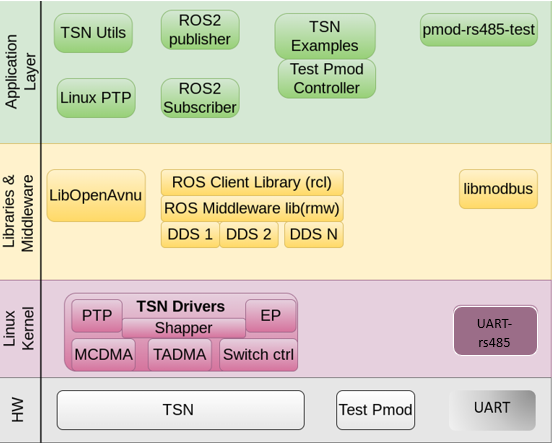
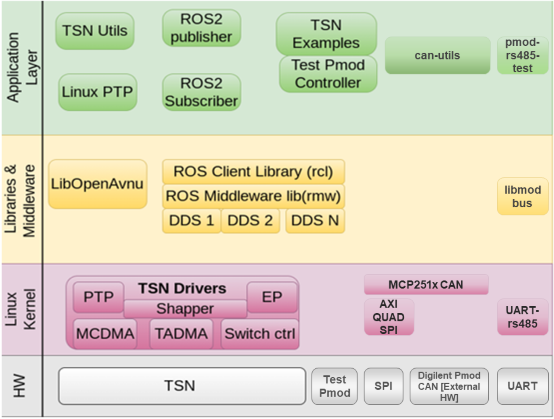
ros-tsn: Update TSN app doc for PMOD-CAN
- Update documentation to include CAN communication
setup and demo section for Digilent Pmod CAN device.
- Modify sw_arch_intro.png, sw_arch_platform.md and
app_deployment.md

diff --git a/docs/src/app_deployment.md b/docs/src/app_deployment.md
@@ -52,6 +52,8 @@ This document shows how to set up the board and run the TSN ROS application.
 
 * [12VDC Power Supply](https://digilent.com/shop/12v-3a-power-supply/) with Prototyping or Bare Terminals – Optional (Sold Separately)
 
+* Two Digilent Pmod CAN devices - Optional (Sold Separately [here](https://digilent.com/reference/pmod/pmodcan/start))
+
 * Wireshark tools installed on host machine (Ubuntu 20.04 Linux used for documentation)
 
 **NOTE**: This tutorial can be run with one KD240 and one KR260 configuration as well
@@ -1196,6 +1198,129 @@ The output on the serial terminal should match the value displayed on the seven-
 > ```
 > For reference, here is the register map of the sensor:
 > ![tmp](media/tmp-ref.png)
+
+
+### CAN Communication Setup and Demonstration
+
+The application extends its functionality to support CAN communication by interfacing with
+[PMOD CAN](https://digilent.com/reference/pmod/pmodcan/start) devices. This additional feature
+allows seamless communication between devices through the CAN interface, enabling efficient
+data exchange for various applications.
+
+#### CAN: Board Setup
+
+The configuration requires a setup involving two Kria boards, either for communication between
+two KR260 boards or between a KR260 board and a KD240 board.
+
+1. KR260-KR260 Setup
+
+Connect the PMOD-CAN test point headers to the J19 (PMOD 3) connector on both KR260 boards.
+Connect the PMOD-CAN devices on both boards using jumper wires as shown below:
+- Connect GND on J19 (KR260 board 1) to GND on J19 (KR260 board 2)
+- Connect CANH on J19 (KR260 board 1) to CANH on J19 (KR260 board 2)
+- Connect CANL on J19 (KR260 board 1) to CANL on J19 (KR260 board 2)
+
+![KR-KR-PMODCAN](media/KR-KR-PMODCAN.png)
+
+2. KR260-KD240 Setup
+
+Connect the PMOD-CAN test point headers to the J19 (PMOD 3) connector on KR260 board.
+Connect the PMOD-CAN device on KR260 board to the CAN 2.0 J18 connector on KD240 board
+using jumper wires as shown below:
+- Connect GND on J19 (KR260 board 1) to GND on J18 (KD240 board 2)
+- Connect CANH on J19 (KR260 board 1) to CANH on J18 (KD240 board 2)
+- Connect CANL on J19 (KR260 board 1) to CANL on J18 (KD240 board 2)
+
+![KR-KD-PMODCAN](media/KR-KD-PMODCAN.png)
+
+
+#### CAN Communication Demo
+
+This tutorial provides a step-by-step guide to run a demo of CAN communication between two
+Kria boards using the CAN interface. It details the necessary packages and commands
+to establish communication, send, and receive messages. Note that this feature is an additional
+capability provided by the application to support CAN communication.
+
+* Required Packages
+Install the necessary packages on both devices:
+    ```bash
+	sudo apt update
+	sudo apt install can-utils   
+    ```
+
+* Ensure to load the TSN accelerator/firmware (refer to step-7 'dynamically load the application
+package' from initial setup) before testing example application. If the firmware is already
+loaded, ignore this step and proceed.
+    * KR260 firmware load command:
+    ```bash
+        sudo xmutil unloadapp
+        sudo xmutil loadapp kr260-tsn-rs485pmod
+    ```
+    * KD240 firmware load command:
+    ```bash
+        sudo xmutil unloadapp
+        sudo xmutil loadapp kd240-motor-ctrl-qei
+    ```
+* Verify CAN device enumeration on both the boards:
+    ```bash
+	ip link show
+    ```
+    Ensure that 'can0' node is listed to confirm that the CAN device is recognized.
+    An example output when run on KR260:
+    ```bash
+	ubuntu@kria:~$ ip link show
+	1: lo: <LOOPBACK,UP,LOWER_UP> mtu 65536 qdisc noqueue state UNKNOWN mode DEFAULT group default qlen 1000
+    	link/loopback 00:00:00:00:00:00 brd 00:00:00:00:00:00
+	11: eth0: <NO-CARRIER,BROADCAST,MULTICAST,UP> mtu 1500 qdisc mq state DOWN mode DEFAULT group default qlen 1000
+    	link/ether 00:0a:35:10:38:7d brd ff:ff:ff:ff:ff:ff
+	12: eth1: <BROADCAST,MULTICAST,UP,LOWER_UP> mtu 1500 qdisc mq state UP mode DEFAULT group default qlen 1000
+    	link/ether 00:0a:35:10:38:7e brd ff:ff:ff:ff:ff:ff
+	13: docker0: <NO-CARRIER,BROADCAST,MULTICAST,UP> mtu 1500 qdisc noqueue state DOWN mode DEFAULT group default
+    	link/ether 02:42:ba:13:d1:63 brd ff:ff:ff:ff:ff:ff
+	14: ep: <BROADCAST,UP,LOWER_UP> mtu 1500 qdisc mq state UNKNOWN mode DEFAULT group default qlen 1000
+    	link/ether 00:0a:35:00:01:05 brd ff:ff:ff:ff:ff:ff
+	15: eth2: <NO-CARRIER,BROADCAST,UP> mtu 1500 qdisc mq state DOWN mode DEFAULT group default qlen 1000
+    	link/ether 00:0a:35:00:01:0e brd ff:ff:ff:ff:ff:ff
+	16: eth3: <NO-CARRIER,BROADCAST,UP> mtu 1500 qdisc mq state DOWN mode DEFAULT group default qlen 1000
+    	link/ether 00:0a:35:00:01:0f brd ff:ff:ff:ff:ff:ff
+	17: can0: <NOARP,ECHO> mtu 16 qdisc noop state DOWN mode DEFAULT group default qlen 10
+    	link/can
+    ```
+* Setup the CAN interface on both the boards:
+    ```bash
+	sudo ip link set can0 type can bitrate 100000
+	sudo ip link set can0 txqueuelen 1000
+	sudo ip link set can0 up
+    ```
+
+* Verify CAN communication:
+
+  Start monitoring messages on board 2
+    ```bash
+	sudo candump can0
+    ```
+  Send CAN message from board 1
+    ```bash
+	sudo cansend can0 123#1122334455667788
+    ```
+  An example output on receiving the message on board 2 is shown below:
+    ```bash
+	ubuntu@kria:~$ sudo candump can0
+
+  	can0  123   [8]  11 22 33 44 55 66 77 88
+    ```
+  Similarly, repeat the above steps by sending the message on board 2 and monitoring on board 1.
+  This ensures that both sending and receiving functionality is verified on both devices.
+
+
+* Bring down the CAN interfaces on both boards after testing:
+   ```bash
+	sudo ip link set can0 down
+   ```
+
+The demo provides users with a foundation to explore and develop CAN-based applications, leveraging
+the communication capability provided by the platform. Integrating this with ROS applications allows
+for efficient and reliable real-time data exchange, enhancing performance and communication.
 
 ## Known issues
 

diff --git a/docs/src/sw_arch_platform.md b/docs/src/sw_arch_platform.md
@@ -12,6 +12,8 @@ Following diagram illustrates the top-level architecture and arrangement of vari
   - Drivers:
     - Uart-rs485
     - set of tsn related drivers
+    - AXI QSPI
+    - MCP251x CAN driver
 - Libraries and Middleware
   - ModBus
   - ROS2
@@ -29,6 +31,7 @@ The following list describes the top-level application functions:
 - TSN demonstration
 - ROS demonstration
 - Modbus and RS485 demonstration
+- CAN communication demonstration
 
 ## TSN
 
@@ -156,6 +159,43 @@ To demonstrate Modbus and RS485 capability an example C application, pmdo-rs485-
 - Adjust response time
 - Read Temperature and Humidity values from the sensor
 
+## CAN Interface and Demonstration
+
+The platform includes support for the mcp25625 microcontroller in the Digilent PMOD CAN device,
+enabled through the quad SPI interface implemented in the PL. Controller Area Network (CAN) is a
+robust communication protocol designed to allow devices to communicate with each other. It is
+widely used in industrial applications due to its reliability and efficiency in data transmission.
+Integrating CAN with ROS environment enhances the ability to manage real-time data exchange in
+robotics and automation systems.  
+
+### Driver
+
+* The AXI QSPI driver facilitates high-speed communication with the Quad SPI interface, which is used
+to initialize and configure the mcp25625 CAN controller.
+* The MCP251x CAN driver is utilized to interface with the Digilent PMOD CAN device. This driver
+supports standard protocols and ensures reliable data transmission across the CAN network.
+
+  The necessary device tree entry that configures the AXI QSPI interface to initialize
+  the CAN controller by specifying the required SPI settings and CAN parameters:
+
+ ```text
+  &axi_quad_spi_CAN {
+                compatible = "xlnx,axi-quad-spi-3.2", "xlnx,xps-spi-2.00.a";
+                xlnx,num-ss-bits = <0x1>;
+                xlnx,spi-mode = <0>;
+                can@0 {
+                        compatible = "microchip,mcp25625";
+                        spi-max-frequency = <10000000>;
+                };
+  };        
+  ```
+
+For the communication, can-utils package is used to interact with the CAN bus via SocketCAN framework, 
+which provides a standardized API for CAN communication on Linux systems. 
+The [CAN demonstration](app_deployment.md#can-communication-setup-and-demonstration) section includes
+instructions to initialize the CAN interface, establish communication, basic examples of sending and
+receiving CAN messages.
+
 ## References
 
 - [Xilinx TSN Solution](https://xilinx-wiki.atlassian.net/wiki/spaces/A/pages/25034864/Xilinx+TSN+Solution)
@@ -166,6 +206,7 @@ To demonstrate Modbus and RS485 capability an example C application, pmdo-rs485-
 - [Modbus Protocol](https://www.modbus.org/specs.php)
 - [RS485](https://en.wikipedia.org/wiki/RS-485)
 - [Uartlite Driver](https://xilinx-wiki.atlassian.net/wiki/spaces/A/pages/18842249/Uartlite+Driver) (Original driver)
+- [Axi-Quad SPI](https://xilinx-wiki.atlassian.net/wiki/spaces/A/pages/575209708/Axi-Quad+SPI)
 
 ### Next Steps
 
